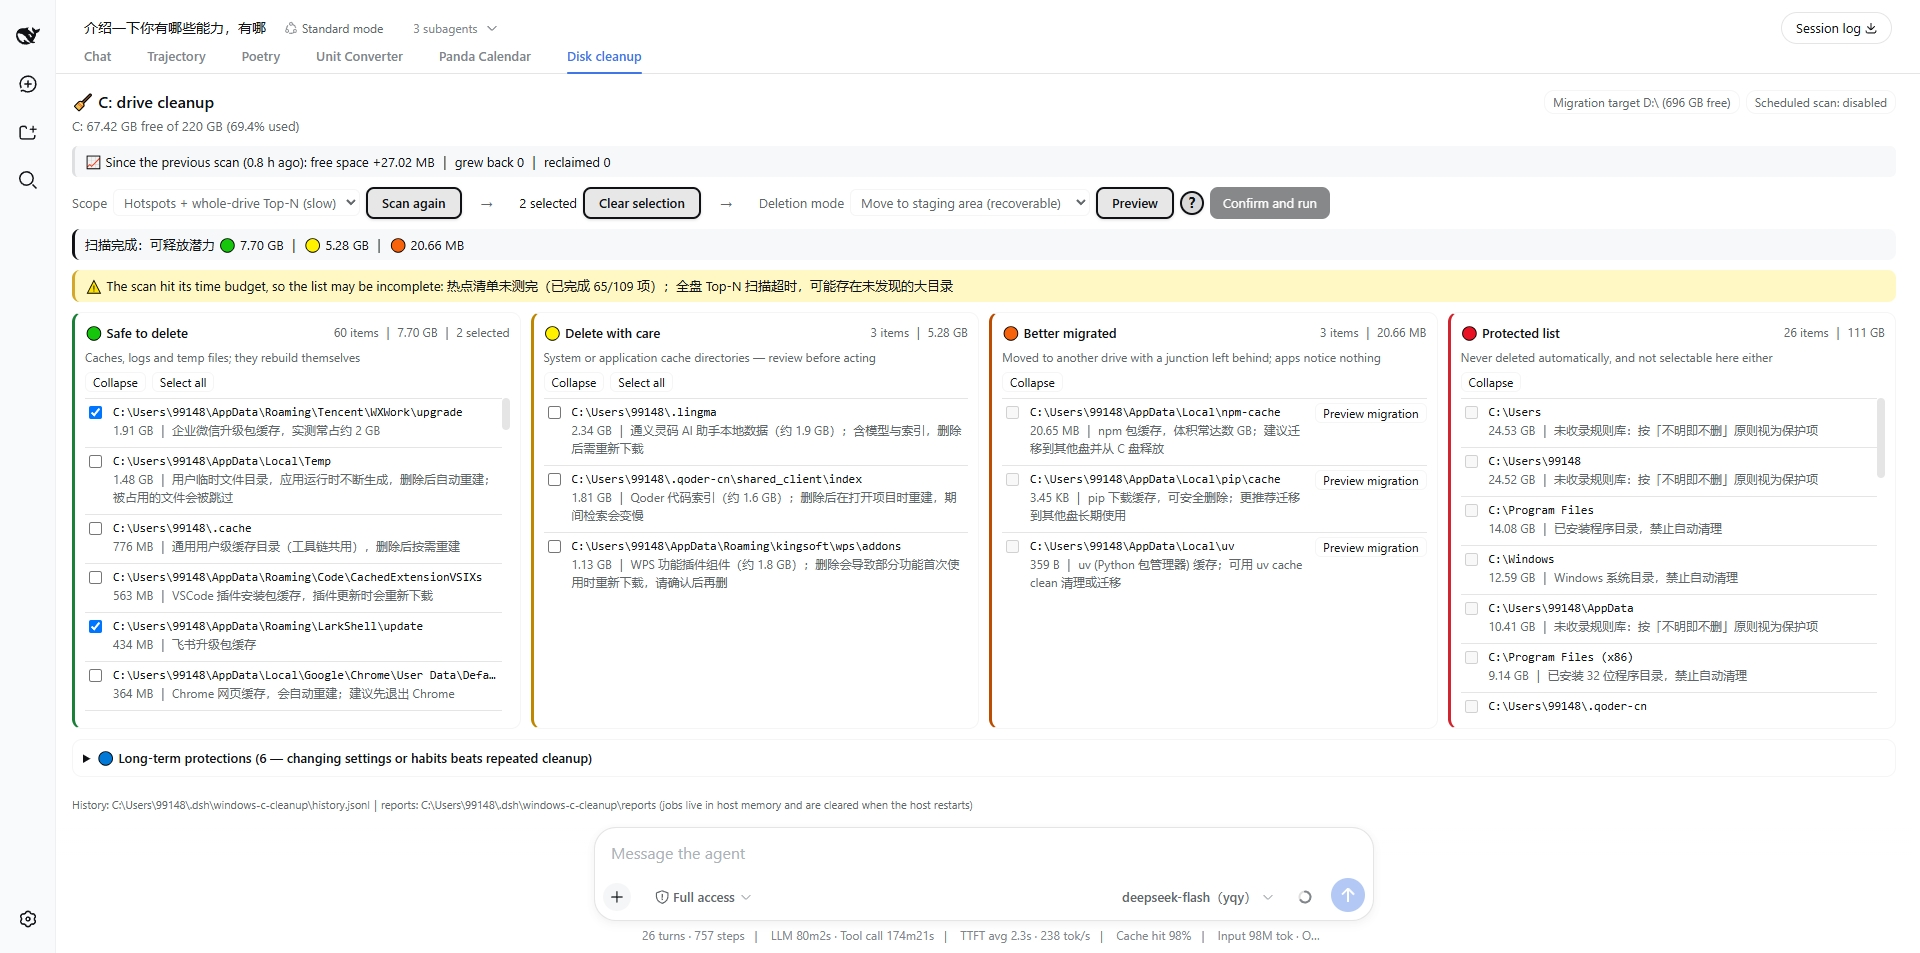
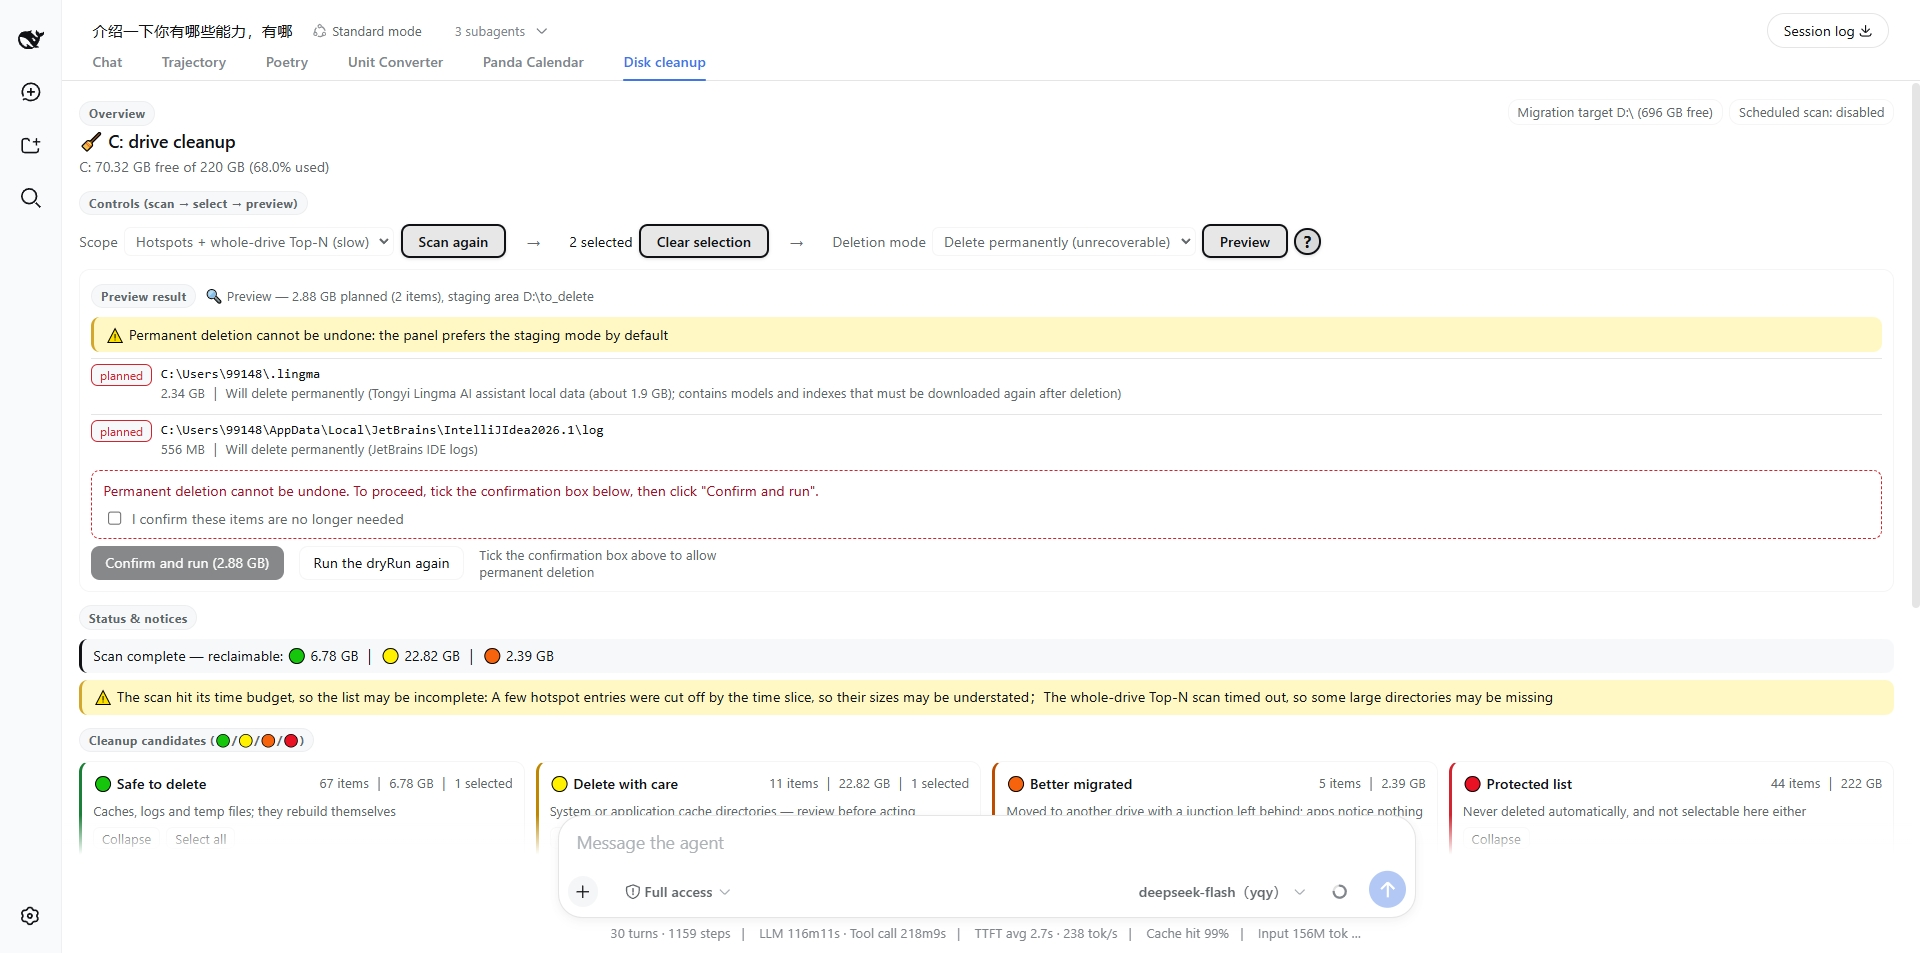
截图更新为最新界面 + 补 screenshots.json + 按钮文案去 camelCase
- assets/preview-zh.jpg / preview-en.jpg 换成最新界面（1920×953）：
  中文图是扫描完成后的五级候选；英文图里能看到「预演结果」紧跟「操作区」、
  唯一执行按钮 Confirm and run，以及它旁边那句可见的禁用原因。
- 新增 screenshots.json（两张图）：市场详情页的预览图先读仓库里这个文件，
  没有它才退化成"从 README 抽图"（过滤极严，实测全市场只有 18% 条目的有预览）。
  该文件不进 npm 包，但必须提交进仓库。
- 「再跑一次 dryRun」→「再预演一次」/「Preview again (dry run)」：
  原来把代码里的驼峰标识符 dryRun 直接印在按钮上（英文读起来像断成
  "Run the dry / Run again" 两个词），现在用界面自己的词「预演」。
- README.en.md 里引用该按钮的那一格同步改名；两份 CHANGELOG 记上本轮变更。

全套 m2/m3/m4/m5/m5:client/m5:live 全绿

diff --git a/client/src/i18n.ts b/client/src/i18n.ts
@@ -115,7 +115,7 @@ const ZH: Record<string, string> = {
   'preview.refused': '已拒绝 {count} 项（保护名单/越界/不存在，宿主的硬约束，面板无法绕过）：',
   'preview.permanentWarn': '永久删除不可恢复。若确认，请先勾选下面的确认框，再点「确认执行」。',
   'preview.permanentConfirm': '我已确认这些内容不再需要',
-  'preview.dryAgain': '再跑一次 dryRun',
+  'preview.dryAgain': '再预演一次',
 
   'migration.title': '🚚 迁移预览 → {root}（目标盘可用 {free}）',
   'migration.spaceOk': '空间够',
@@ -258,7 +258,7 @@ const EN: Record<string, string> = {
   'preview.refused': '{count} entries refused (protected list / out of scope / missing — the host\'s hard constraints, which this panel cannot bypass):',
   'preview.permanentWarn': 'Permanent deletion cannot be undone. To proceed, tick the confirmation box below, then click "Confirm and run".',
   'preview.permanentConfirm': 'I confirm these items are no longer needed',
-  'preview.dryAgain': 'Run the dryRun again',
+  'preview.dryAgain': 'Preview again (dry run)',
 
   'migration.title': '🚚 Migration preview → {root} ({free} free on the target)',
   'migration.spaceOk': 'Room available',

diff --git a/CHANGELOG.en.md b/CHANGELOG.en.md
@@ -41,6 +41,9 @@
 - **Every block in the panel now carries a module-name label** (new): Overview / Controls (scan → select → preview) / Preview result / Status & notices / Cleanup candidates (🟢/🟡/🟠/🔴) / Long-term protections / Run progress / Migration preview / Records & artifacts — so you can point at a block by name. Both READMEs gained a matching "module map" table, and checks 10.1–10.6 keep the labels and the docs aligned (including "the docs must list every module"). The label is an 11px rounded pill with a `data-module` attribute — a label, not a heading, so it never competes with content; the three dynamic blocks (preview / progress / migration) now show the stable name first and their dynamic sentence after it.
 - **Flow arrows between the groups**: a right-pointing `→` follows the "Scan" button and the "Clear selection" button, spelling out "scan first → then select → finally preview". Each arrow carries 12px of margin on both sides (on top of the group's 6px gap) and is `aria-hidden` + `pointer-events:none` — decoration only, skipped by screen readers and never swallowing clicks (checks 5.16, 5.17, 7.9).
 - **`panelState.scheduler` is now structured** (`{enabled, running, intervalHours, alertFreePercent}`): the host no longer pushes Chinese sentences into the UI; the panel composes the wording per locale.
+- **"Run the dryRun again" became "Preview again (dry run)" / 「再预演一次」**: the old label printed the camelCase identifier `dryRun` straight into a button (it read as "Run the dry / Run again", as if the label were two words). The panel now uses its own word for it, "preview".
+- **Screenshots refreshed to the current UI** (`assets/preview-zh.jpg` / `assets/preview-en.jpg`, 1920×953): the Chinese one shows the five-tier candidates after a scan; the English one shows "Preview result" sitting directly under "Controls", the single "Confirm and run" button, and the visible disabled reason next to it.
+- **Added `screenshots.json`** (`["assets/preview-zh.jpg", "assets/preview-en.jpg"]`): a marketplace detail page reads **this file first** for preview images, and only falls back to extracting images from the README (which accepts just 4 GitHub hosts, drops SVG, and runs a semantic score — measured: only 18% of marketplace entries have a preview). The file does not need to ship in the npm package, but it does have to be committed.
 
 ### Tests
 

diff --git a/CHANGELOG.md b/CHANGELOG.md
@@ -41,6 +41,9 @@
 - **面板每个区块都挂上「功能区名」标签**（新）：概览 / 操作区（扫描 → 选择 → 预演）/ 预演结果 / 状态与提示 / 清理候选（🟢/🟡/🟠/🔴）/ 长期防护 / 执行进度 / 迁移预览 / 记录与产物 —— 用户可以直接指着名字说事，README 双语各有一张「功能区对照表」，名字与界面由测试 10.1–10.6 对齐（含"文档里必须列全"这条）。标签做成 11px 圆角小 pill + `data-module` 属性，是标签不是大标题，不抢内容视线；三个动态区块（预演/进度/迁移）原本只有一句动态标题，现在稳定名字在前、动态内容在后。
 - **组间流向箭头**：「扫描」按钮后与「清空选择」按钮后各加一个向右箭头 `→`，标明「先扫描 → 再选择 → 最后预演」。箭头左右各留 12px（叠上组内 6px gap，留白明显），`aria-hidden` + `pointer-events:none`：纯装饰，读屏跳过、不抢点击（测试 5.16、5.17、7.9）。
 - **`panelState.scheduler` 改成结构化字段**（`{enabled, running, intervalHours, alertFreePercent}`）：宿主不再往界面吐中文句子，文案由面板按语言组织。
+- **「再跑一次 dryRun」改叫「再预演一次」/「Preview again (dry run)」**：原来的文案把代码里的驼峰标识符 `dryRun` 直接印在按钮上了（英文界面显示成 `Run the dryRun again`，视觉上像断成 "Run the dry / Run again" 两个词），现在用界面自己的词「预演」。
+- **截图更新为最新界面**（`assets/preview-zh.jpg` / `assets/preview-en.jpg`，1920×953）：中文图是扫描完成后的五级候选；英文图里能看到「预演结果」紧跟「操作区」、唯一执行按钮「Confirm and run」以及它旁边那句可见的禁用原因。
+- **补上 `screenshots.json`**（`["assets/preview-zh.jpg", "assets/preview-en.jpg"]`）：市场详情页的预览图**先读仓库里这个文件**，没有它才会退化成"从 README 抽图"（只认 4 个 GitHub 图床、丢弃 svg、还要过语义打分，实测全市场只有 18% 的条目有预览）。这个文件不必进 npm 包，但必须提交进仓库。
 
 ### 测试
 

diff --git a/README.en.md b/README.en.md
@@ -103,7 +103,7 @@ Top to bottom, each block has a small fixed-name label in its top-left corner (o
 | --- | --- | --- |
 | **Overview** | the header, top of the panel | drive free/total and used percentage; two chips on the right: migration target (letter + free space) and the scheduled-scan switch |
 | **Controls (scan → select → preview)** | under the header | three tight groups with right-pointing arrows between them: ① Scope + Scan C: ② "n selected" + Clear selection ③ Delete mode + Preview + `?`. **There is no "Confirm and run" here** — the run entry point lives only in "Preview result" |
-| **Preview result** | **directly under the controls** (appears after clicking Preview) | what would happen to each item (move to staging / permanent delete / needs elevation / refused), the total that would be freed, and the refusal list; **the panel's only "Confirm and run" button sits here**, next to "dry run again". The dynamic text beside the title is *what this particular preview worked out* |
+| **Preview result** | **directly under the controls** (appears after clicking Preview) | what would happen to each item (move to staging / permanent delete / needs elevation / refused), the total that would be freed, and the refusal list; **the panel's only "Confirm and run" button sits here**, next to "Preview again (dry run)". The dynamic text beside the title is *what this particular preview worked out* |
 | **Status & notices** | under the preview result | what is running now (⏳), the result notice of the last action, errors, and the warning shown when the scan hit its time budget |
 | **Cleanup candidates (🟢/🟡/🟠/🔴)** | the four cards in the middle | Safe to delete / Delete with care / Better migrated / Protected list, each item with path, size and reason; protected entries cannot be selected |
 | **Long-term protections** | under the cards (collapsible) | the 6 long-term measures where changing settings or habits beats repeated cleanup |
